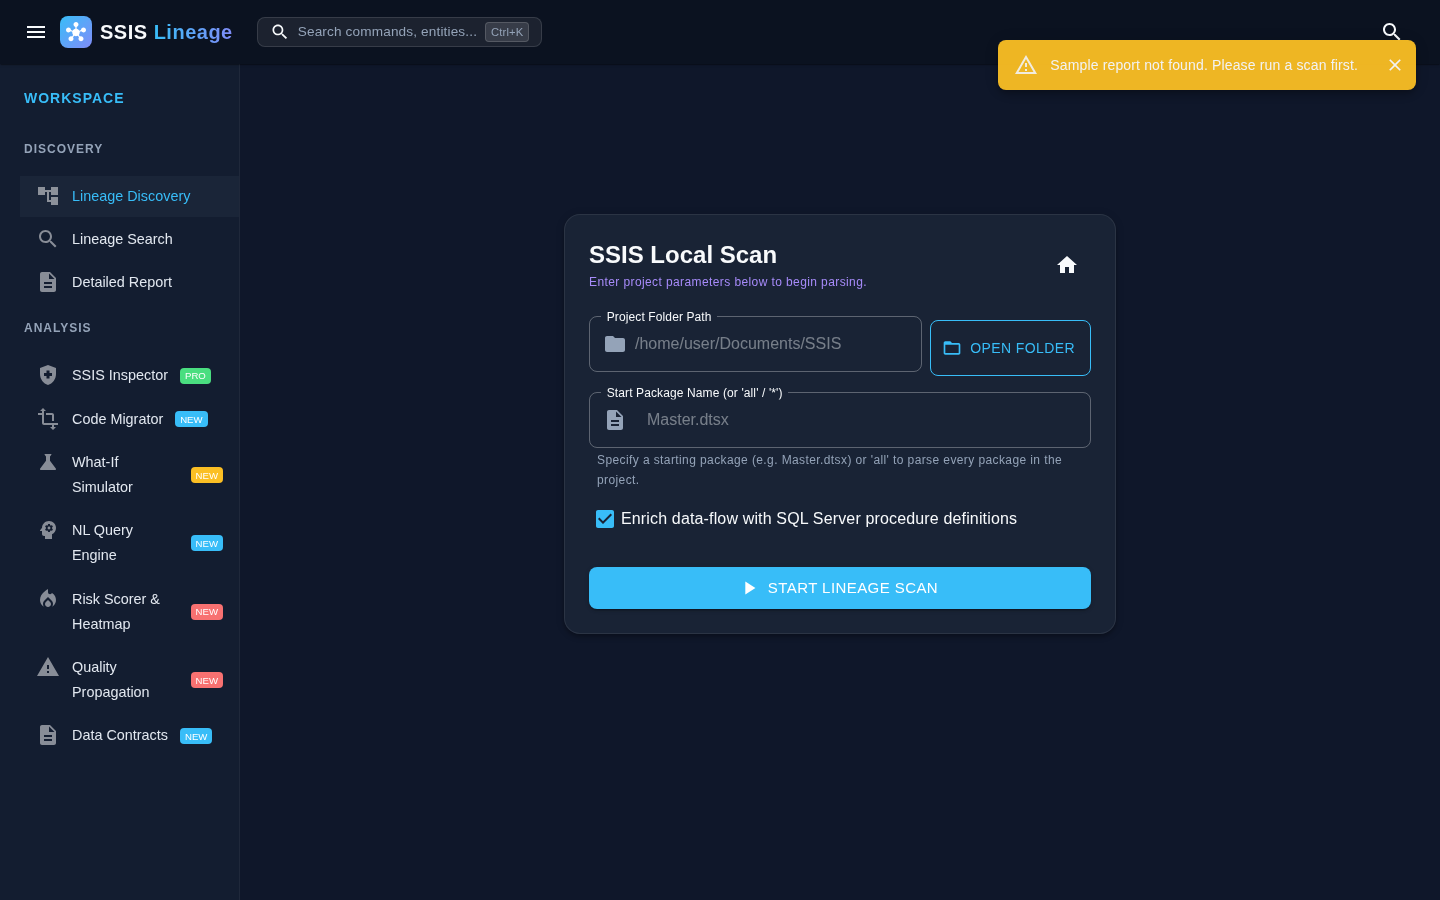
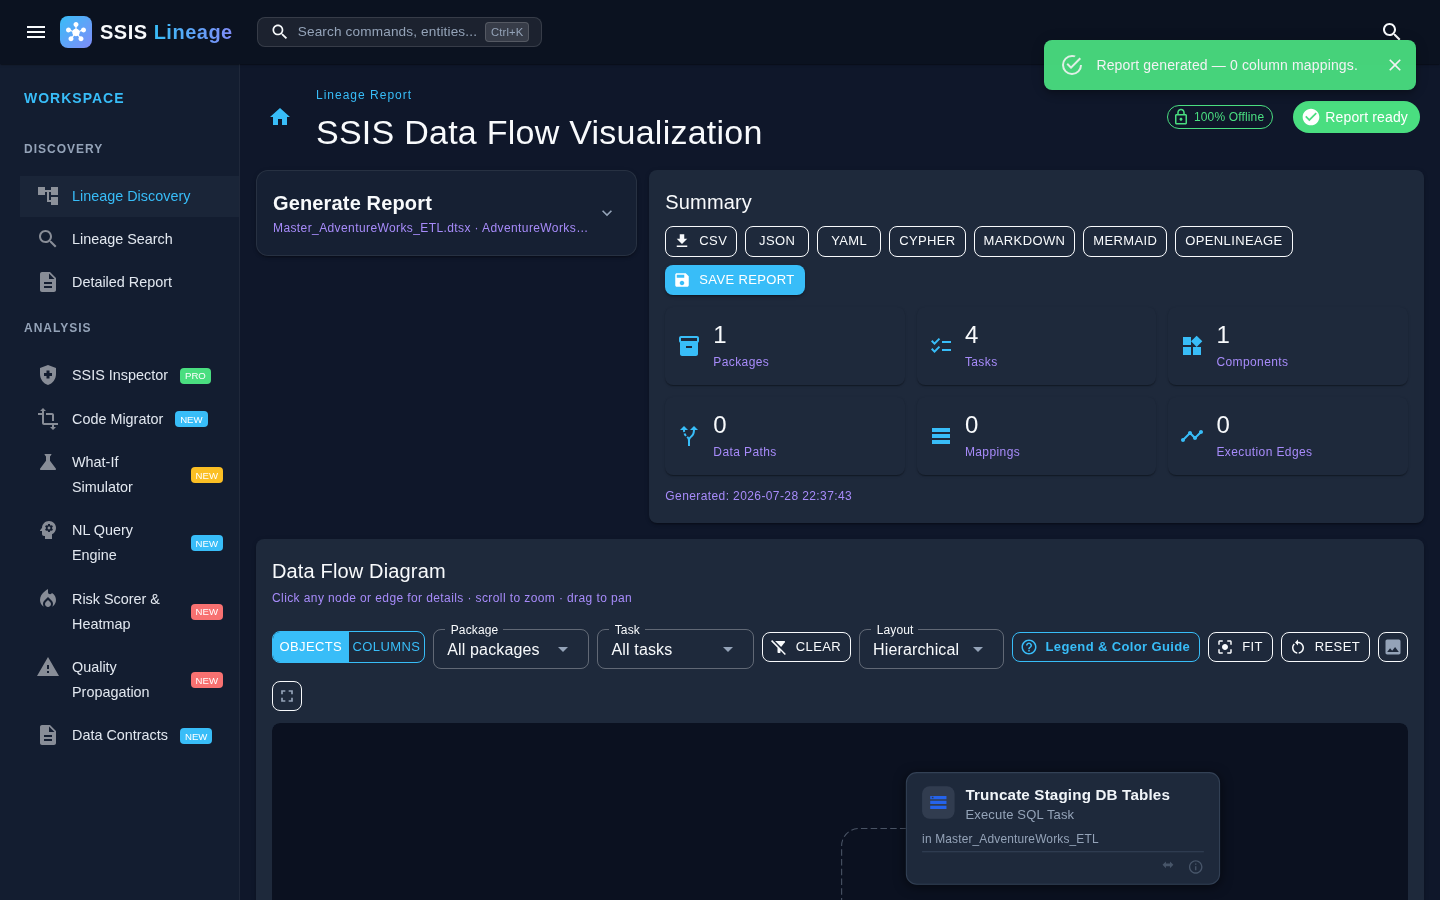
docs: update README with project screenshots and refine feature descriptions while adding default demo connection settings to lineage page

diff --git a/README.md b/README.md
@@ -10,12 +10,22 @@ Features a modernized **Landing Page Dashboard** and a streamlined, responsive w
 
 ---
 
+## 📸 Screenshots & Interface Preview
+
+### 1. Landing Page Portal & Intelligence Hub
+![Landing Page Portal](docs/images/landing-page.png)
+
+### 2. Interactive Data Flow Visualization & Workspace
+![Interactive Lineage Visualization & Workspace](docs/images/lineage-visualization.png)
+
+---
+
 ## 🌟 Key Features
 
 *   **Decoupled Landing Page**: Serves as a clean entry portal featuring quick-launch actions, live project overview statistics, and sample tutorial datasets.
 *   **Interactive Lineage Visualization**: Zoomable Cytoscape-powered graphs mapping packages, control flow tasks, components, and column-level origins.
 *   **Modern Workspace Sidebar**: Integrated with MudBlazor expansion panels to collapse database connection overrides and advanced settings, keeping workspaces clean and compact.
-*   **Indonesian Business Narratives**: Auto-generates natural language summaries in Bahasa Indonesia for packages and columns.
+*   **Business Narratives**: Auto-generates natural language summaries for packages and columns.
 *   **100% Offline Parsing**: Zero cloud calls, telemetry, or external API requirements. All package XML parsing and SQL AST resolution are done locally.
 *   **Multi-Format Export**: One-click exports for CSV, Excel, JSON, YAML, Neo4j Cypher, Mermaid, and OpenLineage.
 
